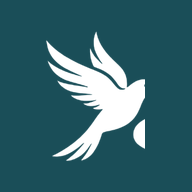
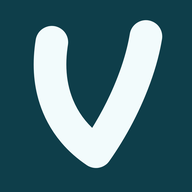
feat(brand): new mark, redrawn by hand for the sizes it has to survive
The wordmark this comes from is an ornate piece — chrome-rimmed script, a
ribbon threaded through the letters, blossoms, filigree. None of that
reaches 16px. Cropping the "V" out of the artwork and shrinking it was
tried and produced a smudge; auto-tracing it to a silhouette produced
noise, because the letter is lighter than its own glow in places.

So the icon tier is drawn from scratch in SVG using the ornate V only as
a reference for the letterform: the curved left side, the rounded bottom,
the taller thinner right stroke. One weight, one colour, on a solid tile
sampled from the artwork. Verified legible at 16px before committing.

Maskable icons are separate files rather than the same art flagged twice.
Android crops a maskable icon to a circle, so its letter is drawn smaller
inside a wide safe margin; reusing the standard icon would clip it.

Changed region(s): [[0.1562, 0.0938, 0.875, 0.875], [0.7188, 0.5312, 0.75, 0.5938]]

diff --git a/src/app/manifest.ts b/src/app/manifest.ts
@@ -13,10 +13,10 @@ export default function manifest(): MetadataRoute.Manifest {
     description: SITE_DESCRIPTION,
     start_url: "/",
     display: "standalone",
-    // Matches the `themeColor` in the root layout viewport so the launch
-    // splash does not flash a different colour than the app itself.
-    background_color: "#f1ece3",
-    theme_color: "#f1ece3",
+    // Matches the mark's tile colour, so the launch splash flows into the
+    // brand rather than flashing a different ground first.
+    background_color: "#0E3E4A",
+    theme_color: "#0E3E4A",
     lang: "vi",
     categories: ["lifestyle", "productivity"],
     icons: [
@@ -32,11 +32,26 @@ export default function manifest(): MetadataRoute.Manifest {
         type: "image/png",
         purpose: "any",
       },
+      // Separate maskable files, not the same art flagged twice: Android crops a
+      // maskable icon to a circle, so its artwork is drawn smaller inside a wide
+      // safe margin. Reusing the standard icon here would clip the letter.
+      {
+        src: "/icon-maskable-192.png",
+        sizes: "192x192",
+        type: "image/png",
+        purpose: "maskable",
+      },
+      {
+        src: "/icon-maskable-512.png",
+        sizes: "512x512",
+        type: "image/png",
+        purpose: "maskable",
+      },
       {
         src: "/icon-512.png",
         sizes: "512x512",
         type: "image/png",
-        purpose: "maskable",
+        purpose: "any",
       },
     ],
   };
